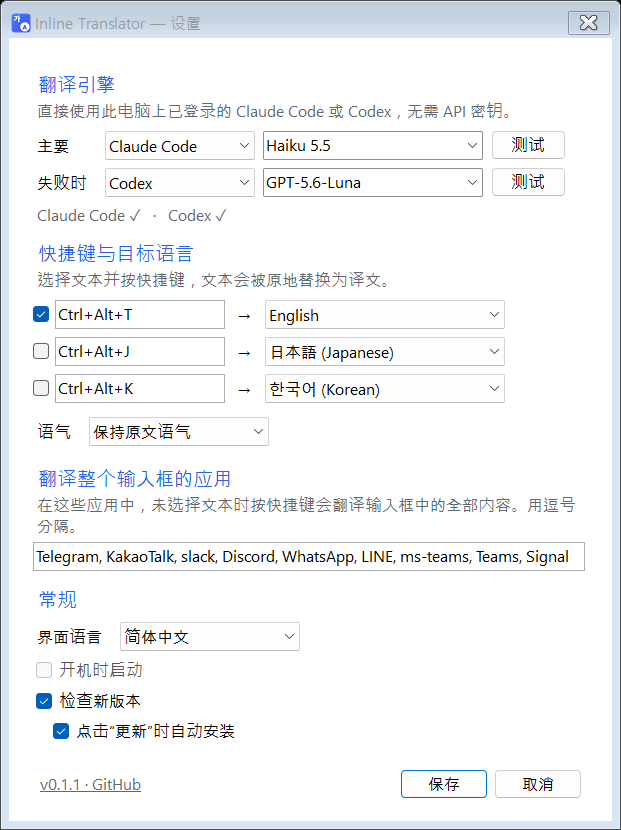
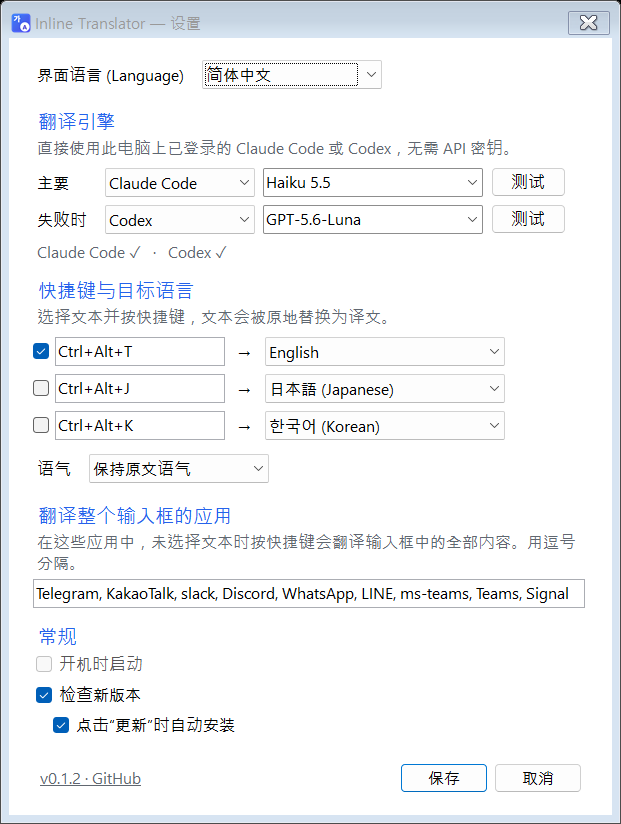
Switch the display language from the top of Settings or the tray menu in Inline Translator 0.1.2

diff --git a/src/InlineTranslator/SettingsForm.cs b/src/InlineTranslator/SettingsForm.cs
@@ -25,7 +25,7 @@ internal sealed class SettingsForm : Form
     private readonly Button updateButton = new() { AutoSize = true, Visible = false, FlatStyle = FlatStyle.System };
 
     public SettingsForm(AppSettings settings, UiText text, Icon icon, ReleaseInfo? update,
-        Func<AppSettings, IReadOnlyList<string>> save, Func<Task> installUpdate)
+        Func<AppSettings, IReadOnlyList<string>> save, Func<Task> installUpdate, Action<string> changeLanguage)
     {
         this.text = text;
         original = settings;
@@ -56,6 +56,13 @@ internal sealed class SettingsForm : Form
             Padding = new Padding(24, 18, 24, 16),
         };
         Controls.Add(root);
+
+        var languageRow = Grid(2);
+        languageRow.Margin = Padding.Empty;
+        languageRow.Controls.Add(new Label { Text = LanguageLabel(text), AutoSize = true, Anchor = AnchorStyles.Left, Margin = new Padding(0, 6, 12, 6) });
+        uiLanguage.Items.AddRange([.. DisplayLanguages.Select(language => language.Code == "" ? text.T("System default") : language.Name)]);
+        languageRow.Controls.Add(uiLanguage);
+        root.Controls.Add(languageRow);
 
         root.Controls.Add(Section(text.T("Translation engine"),
             text.T("Uses the Claude Code or Codex you are already signed in to on this PC. No API key needed.")));
@@ -93,11 +100,6 @@ internal sealed class SettingsForm : Form
         root.Controls.Add(wholeInputApps);
 
         root.Controls.Add(Section(text.T("General"), null));
-        var languageRow = Grid(2);
-        languageRow.Controls.Add(new Label { Text = text.T("Display language"), AutoSize = true, Anchor = AnchorStyles.Left, Margin = new Padding(0, 6, 12, 6) });
-        uiLanguage.Items.AddRange([text.T("System default"), "한국어", "English", "简体中文", "日本語"]);
-        languageRow.Controls.Add(uiLanguage);
-        root.Controls.Add(languageRow);
         startWithWindows.Text = text.T("Start with Windows");
         startWithWindows.Enabled = StartWithWindows.Executable is not null;
         checkForUpdates.Text = text.T("Check for new versions");
@@ -136,7 +138,18 @@ internal sealed class SettingsForm : Form
 
         LoadSettings(settings);
         SetUpdate(update);
+        uiLanguage.SelectionChangeCommitted += (_, _) =>
+        {
+            string code = DisplayLanguages[Math.Max(0, uiLanguage.SelectedIndex)].Code;
+            BeginInvoke(() => changeLanguage(code));
+        };
     }
+
+    public static readonly IReadOnlyList<(string Code, string Name)> DisplayLanguages =
+        [("", "System default"), ("ko", "한국어"), ("en", "English"), ("zh-CN", "简体中文"), ("ja", "日本語")];
+
+    public static string LanguageLabel(UiText text) =>
+        text.Language == "en" ? text.T("Display language") : text.T("Display language") + " (Language)";
 
     public void SetUpdate(ReleaseInfo? release)
     {
@@ -157,7 +170,7 @@ internal sealed class SettingsForm : Form
         }
         tone.SelectedIndex = Math.Max(0, Array.IndexOf(AppSettings.Tones, settings.Tone));
         wholeInputApps.Text = string.Join(", ", settings.WholeInputApps);
-        uiLanguage.SelectedIndex = Array.IndexOf(AppSettings.UiLanguages, settings.UiLanguage) + 1;
+        uiLanguage.SelectedIndex = Math.Max(0, DisplayLanguages.ToList().FindIndex(language => language.Code == settings.UiLanguage));
         startWithWindows.Checked = StartWithWindows.IsEnabled;
         checkForUpdates.Checked = settings.CheckForUpdates;
         autoInstall.Checked = settings.AutoInstallUpdates;
@@ -177,7 +190,7 @@ internal sealed class SettingsForm : Form
             (row.Language.SelectedItem as TargetLanguage)?.Code ?? "en")).ToArray(),
         Tone = AppSettings.Tones[Math.Max(0, tone.SelectedIndex)],
         WholeInputApps = wholeInputApps.Text.Split(',', StringSplitOptions.RemoveEmptyEntries | StringSplitOptions.TrimEntries),
-        UiLanguage = uiLanguage.SelectedIndex <= 0 ? "" : AppSettings.UiLanguages[uiLanguage.SelectedIndex - 1],
+        UiLanguage = DisplayLanguages[Math.Max(0, uiLanguage.SelectedIndex)].Code,
         CheckForUpdates = checkForUpdates.Checked,
         AutoInstallUpdates = autoInstall.Checked,
     };

diff --git a/src/InlineTranslator/TrayApp.cs b/src/InlineTranslator/TrayApp.cs
@@ -19,6 +19,7 @@ internal sealed class TrayApp : ApplicationContext
     private readonly ToolStripMenuItem updateItem = new() { Visible = false };
     private readonly ToolStripMenuItem settingsItem = new();
     private readonly ToolStripMenuItem pauseItem = new() { CheckOnClick = true };
+    private readonly ToolStripMenuItem languageItem = new();
     private readonly ToolStripMenuItem exitItem = new();
     private readonly ToolStripLabel titleItem = new() { Enabled = false };
     private AppSettings settings;
@@ -36,7 +37,13 @@ internal sealed class TrayApp : ApplicationContext
         hotkeys.ActivationRequested += ShowSettings;
 
         var menu = new ContextMenuStrip();
-        menu.Items.AddRange([titleItem, new ToolStripSeparator(), updateItem, settingsItem, pauseItem, new ToolStripSeparator(), exitItem]);
+        menu.Items.AddRange([titleItem, new ToolStripSeparator(), updateItem, settingsItem, languageItem, pauseItem, new ToolStripSeparator(), exitItem]);
+        foreach (var (code, name) in SettingsForm.DisplayLanguages)
+        {
+            var item = new ToolStripMenuItem(name) { Tag = code };
+            item.Click += (_, _) => ChangeDisplayLanguage(code);
+            languageItem.DropDownItems.Add(item);
+        }
         updateItem.Click += async (_, _) => await InstallUpdateAsync();
         settingsItem.Click += (_, _) => ShowSettings();
         pauseItem.CheckedChanged += (_, _) => ApplyHotkeys(notify: true);
@@ -64,6 +71,12 @@ internal sealed class TrayApp : ApplicationContext
         settingsItem.Text = text.T("Settings…");
         pauseItem.Text = text.T("Pause hotkeys");
         exitItem.Text = text.T("Exit");
+        languageItem.Text = SettingsForm.LanguageLabel(text);
+        foreach (ToolStripMenuItem item in languageItem.DropDownItems)
+        {
+            item.Checked = (string)item.Tag! == settings.UiLanguage;
+            if ((string)item.Tag! == "") item.Text = text.T("System default");
+        }
         if (update is not null) updateItem.Text = text.T("Update to {0}", update.Tag);
         var active = settings.Presets.Where(preset => preset.Enabled)
             .Select(preset => $"{preset.Hotkey} → {Languages.Find(preset.TargetLanguage)?.NativeName}");
@@ -95,10 +108,26 @@ internal sealed class TrayApp : ApplicationContext
             settingsForm.Activate();
             return;
         }
-        settingsForm = new SettingsForm(settings, text, icon, update, SaveSettings, InstallUpdateAsync);
+        settingsForm = new SettingsForm(settings, text, icon, update, SaveSettings, InstallUpdateAsync, ChangeDisplayLanguage);
         settingsForm.FormClosed += (_, _) => settingsForm = null;
         settingsForm.Show();
         settingsForm.Activate();
+    }
+
+    private void ChangeDisplayLanguage(string code)
+    {
+        bool reopen = settingsForm is { IsDisposed: false };
+        settingsForm?.Close();
+        try
+        {
+            SaveSettings(settings with { UiLanguage = code });
+        }
+        catch (Exception error) when (error is IOException or UnauthorizedAccessException)
+        {
+            ErrorLog.Write("Could not save settings", error);
+            Notify(text.T("Could not save settings: {0}", error.Message), ToolTipIcon.Error);
+        }
+        if (reopen) ShowSettings();
     }
 
     private IReadOnlyList<string> SaveSettings(AppSettings updated)

diff --git a/tests/InlineTranslator.Tests/Program.cs b/tests/InlineTranslator.Tests/Program.cs
@@ -337,7 +337,7 @@ internal static class Program
         Check(Parse("""{"tag_name":"v0.2.0","html_url":"https://github.com/a","assets":[{"name":"inline-translator-win-x64.zip","browser_download_url":"https://github.com/x"}]}""")!.PackageUrl is null, "no digest means no automatic install");
         Check(Parse("""{"tag_name":"v0.2.0","html_url":"https://evil.example/"}""") is null, "non-GitHub page rejected");
         Check(Parse("""{"tag_name":"latest","html_url":"https://github.com/a"}""") is null, "non-version tag rejected");
-        Equal(new Version(0, 1, 1), UpdateChecker.Current);
+        Equal(new Version(0, 1, 2), UpdateChecker.Current);
     }
 
     private static void UpdateInstall()

diff --git a/tools/Preview/Program.cs b/tools/Preview/Program.cs
@@ -27,7 +27,7 @@ internal static class Program
         {
             var settings = new AppSettings { UiLanguage = language }.Normalize();
             using var icon = AppIcon.Load();
-            using var form = new SettingsForm(settings, new UiText(language), icon, null, _ => [], () => Task.CompletedTask);
+            using var form = new SettingsForm(settings, new UiText(language), icon, null, _ => [], () => Task.CompletedTask, _ => { });
             form.Show();
             Application.DoEvents();
             using var bitmap = new Bitmap(form.Width, form.Height);

diff --git a/README.md b/README.md
@@ -8,14 +8,21 @@
 
 이제 **쓰던 자리에서 단축키 한 번**이면 됩니다. 몇 초 안에 그 자리에서 번역문으로 바뀝니다.
 
+> **원문 언어는 신경 쓰지 마세요.** 한국어든 일본어든 여러 언어가 섞여 있든, 무슨 언어인지 자동으로 알아내서 정해 둔 언어로 바꿉니다. 고를 건 "무엇으로 바꿀지" 하나뿐입니다.
+
 <p align="center"><img src="docs/images/demo-ko.gif" width="800" alt="메신저 입력창에 한글을 쓰고 Ctrl+Alt+T를 누르자 영어로 바뀌는 시연"></p>
 <p align="center"><sub>실제 Claude Haiku 번역 결과로 재현한 시연 화면입니다.</sub></p>
 
 ## 이렇게 씁니다
 
-1. 텔레그램, 카톡, 슬랙, 메일, 문서 어디서든 평소처럼 씁니다.
-2. 번역할 부분을 선택하고 **`Ctrl+Alt+T`** 를 누릅니다. 메신저에서는 선택 없이 눌러도 입력창 전체가 번역됩니다.
-3. 2~4초 뒤 그 자리에서 번역문으로 바뀝니다. 마음에 안 들면 `Ctrl+Z`.
+| 이렇게 하면 | 이렇게 번역됩니다 |
+|---|---|
+| 💬 메신저 입력창에서 **그냥 `Ctrl+Alt+T`** | 입력창에 쓴 **글 전체**를 번역 |
+| 🖱 **드래그로 선택한 뒤 `Ctrl+Alt+T`** | **선택한 부분만** 번역 (메신저, 메일, 문서 어디서든) |
+
+- 2~4초 뒤 그 자리에서 번역문으로 바뀝니다. 마음에 안 들면 `Ctrl+Z`.
+- 선택 없이 전체를 번역하는 앱: 텔레그램, 카카오톡, 슬랙, 디스코드, 왓츠앱, 라인, Teams, Signal. 설정에서 더하거나 뺄 수 있습니다.
+- 그 밖의 앱(Word, 브라우저 등)에서는 문서 전체가 바뀌는 일이 없도록 선택한 부분만 번역합니다.
 
 ## 기능
 
@@ -28,7 +35,7 @@
 - **안전하게** — 번역하는 동안 다른 창으로 옮기면 붙여 넣지 않고 클립보드에만 넣어 둡니다. 원래 클립보드 내용은 되돌려 놓습니다.
 - **기록 없음** — 번역한 글은 파일에도, Windows 클립보드 기록(`Win+V`)에도 남지 않습니다.
 - **원클릭 업데이트** — 새 버전이 나오면 알림 영역 메뉴와 설정 창에 `업데이트` 버튼이 뜹니다. 누르면 받아서 바꾸고 다시 실행합니다.
-- **화면 언어** — 한국어, English, 简体中文, 日本語.
+- **화면 언어** — 한국어, English, 简体中文, 日本語. 설정 창 맨 위나 알림 영역 메뉴에서 바로 바꿉니다.
 
 ## 시작하기
 
@@ -51,7 +58,8 @@ Windows 11 x64용이고, 실행 파일에 .NET이 포함돼 있어 따로 설치
 | 번역 엔진 | 기본 엔진과 실패 시 쓸 엔진. 모델 이름은 목록에서 고르거나 직접 입력합니다. |
 | 단축키와 번역 언어 | 단축키 칸을 누르고 원하는 키 조합을 누르면 바뀝니다. |
 | 입력창 전체를 번역할 앱 | 여기 적힌 앱에서는 선택 없이 단축키를 눌러도 입력창 전체를 번역합니다. 기본값: Telegram, KakaoTalk, Slack, Discord, WhatsApp, LINE, Teams, Signal |
-| 일반 | 화면 언어, Windows 시작 시 실행, 새 버전 확인 |
+| 화면 언어 | 앱 화면에 쓸 언어. 고르면 바로 바뀝니다. |
+| 일반 | Windows 시작 시 실행, 새 버전 확인 |
 
 ## 데이터와 개인정보
 

diff --git a/README.en.md b/README.en.md
@@ -8,14 +8,21 @@ Tired of opening ChatGPT or Claude, pasting, copying and switching back just to 
 
 Now it is **one hotkey, right where you are typing**. In a few seconds your text turns into the translation in place.
 
+> **Never pick a source language.** Korean, Japanese, a mix of several — whatever you write in is detected automatically and turned into the language you chose. The only choice is what to translate *into*.
+
 <p align="center"><img src="docs/images/demo-en.gif" width="800" alt="Typing Korean in a chat box, pressing Ctrl+Alt+T, and the text becoming English"></p>
 <p align="center"><sub>A reenactment built from a real Claude Haiku translation.</sub></p>
 
 ## How it works
 
-1. Type as usual — Telegram, Slack, email, documents, anywhere.
-2. Select what you want translated and press **`Ctrl+Alt+T`**. In chat apps you can skip selecting: the whole input box is translated.
-3. Two to four seconds later the translation replaces your text. Don't like it? `Ctrl+Z`.
+| Do this | Get this |
+|---|---|
+| 💬 In a chat input box, **just press `Ctrl+Alt+T`** | The **whole message** you typed is translated |
+| 🖱 **Drag to select, then press `Ctrl+Alt+T`** | **Only the selection** is translated (chat, email, documents, anywhere) |
+
+- Two to four seconds later the translation replaces your text. Don't like it? `Ctrl+Z`.
+- Apps where no selection means the whole input box: Telegram, KakaoTalk, Slack, Discord, WhatsApp, LINE, Teams, Signal. Add or remove apps in Settings.
+- Everywhere else (Word, browsers, …) only the selection is translated, so a whole document is never replaced by accident.
 
 ## Features
 
@@ -28,7 +35,7 @@ Now it is **one hotkey, right where you are typing**. In a few seconds your text
 - **Safe by default** — if you switch windows while it is translating, the result goes to the clipboard instead of being pasted. Your previous clipboard is restored.
 - **Nothing recorded** — translated text is never written to disk or to Windows clipboard history (`Win+V`).
 - **One-click update** — when a new version is out, an `Update` button appears in the tray menu and Settings. Click it to download, replace and restart.
-- **Interface languages** — 한국어, English, 简体中文, 日本語.
+- **Interface languages** — 한국어, English, 简体中文, 日本語. Switch at the top of Settings or from the tray menu.
 
 ## Getting started
 
@@ -51,7 +58,8 @@ Built for Windows 11 x64. The executable includes .NET, so nothing else to insta
 | Translation engine | Main engine and the one to use if it fails. Pick a model from the list or type its name. |
 | Hotkeys and target languages | Click a hotkey box and press the combination you want. |
 | Apps that translate the whole input box | In these apps the hotkey works without selecting. Default: Telegram, KakaoTalk, Slack, Discord, WhatsApp, LINE, Teams, Signal |
-| General | Interface language, start with Windows, update checks |
+| Display language | Language of the app itself; applies immediately. |
+| General | Start with Windows, update checks |
 
 ## Data and privacy
 

diff --git a/README.zh-CN.md b/README.zh-CN.md
@@ -8,14 +8,21 @@
 
 现在只需**在输入的地方按一次快捷键**，几秒内原文就会被替换为译文。
 
+> **无需选择原文语言。** 韩语、日语，或多种语言混写，都会自动识别并翻译成你设定的语言。你只需决定“翻译成什么”。
+
 <p align="center"><img src="docs/images/demo-en.gif" width="800" alt="在聊天输入框输入韩文后按 Ctrl+Alt+T，文本变成英文"></p>
 <p align="center"><sub>使用真实 Claude Haiku 翻译结果重现的演示。</sub></p>
 
 ## 使用方法
 
-1. 照常输入：Telegram、Slack、邮件、文档，任何地方都可以。
-2. 选中要翻译的文字，按 **`Ctrl+Alt+T`**。在聊天应用中不选中也可以，会翻译整个输入框。
-3. 2～4 秒后译文替换原文。不满意就按 `Ctrl+Z`。
+| 这样操作 | 翻译结果 |
+|---|---|
+| 💬 在聊天输入框中**直接按 `Ctrl+Alt+T`** | 翻译输入框中的**全部内容** |
+| 🖱 **拖动选中后按 `Ctrl+Alt+T`** | **只翻译选中的部分**（聊天、邮件、文档等任何地方） |
+
+- 2～4 秒后译文替换原文。不满意就按 `Ctrl+Z`。
+- 不选中即翻译整个输入框的应用：Telegram、KakaoTalk、Slack、Discord、WhatsApp、LINE、Teams、Signal。可在设置中增减。
+- 其他应用（Word、浏览器等）只翻译选中部分，不会误换整个文档。
 
 ## 功能
 
@@ -28,7 +35,7 @@
 - **安全** —— 翻译期间切换了窗口，结果只放入剪贴板而不粘贴；原剪贴板内容会被恢复。
 - **不留记录** —— 译文不会写入文件，也不会进入 Windows 剪贴板历史（`Win+V`）。
 - **一键更新** —— 有新版本时，托盘菜单和设置中会出现“更新”按钮，点击即可下载、替换并重启。
-- **界面语言** —— 한국어、English、简体中文、日本語。
+- **界面语言** —— 한국어、English、简体中文、日本語。可在设置顶部或托盘菜单中直接切换。
 
 ## 开始使用
 
@@ -51,7 +58,8 @@
 | 翻译引擎 | 主引擎和失败时使用的引擎。可从列表选择模型或直接输入。 |
 | 快捷键与目标语言 | 点击快捷键框，按下想要的组合键。 |
 | 翻译整个输入框的应用 | 在这些应用中不选中也能翻译整个输入框。默认：Telegram、KakaoTalk、Slack、Discord、WhatsApp、LINE、Teams、Signal |
-| 常规 | 界面语言、开机启动、检查更新 |
+| 界面语言 | 应用本身的语言，选择后立即生效。 |
+| 常规 | 开机启动、检查更新 |
 
 ## 数据与隐私
 
